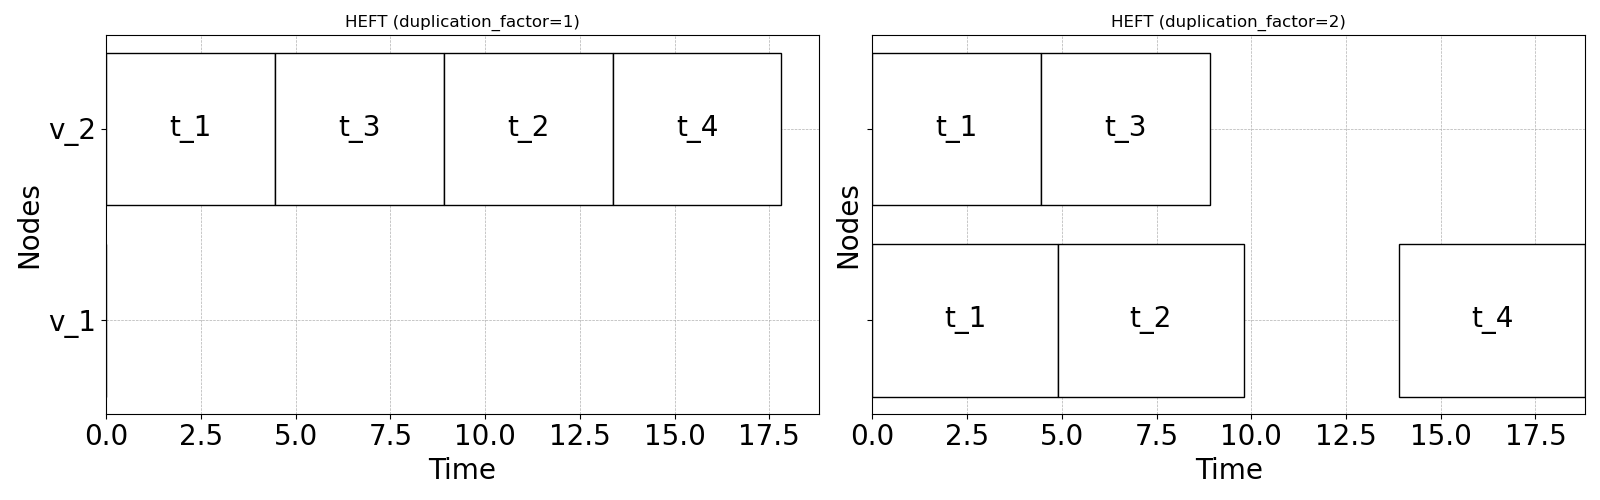
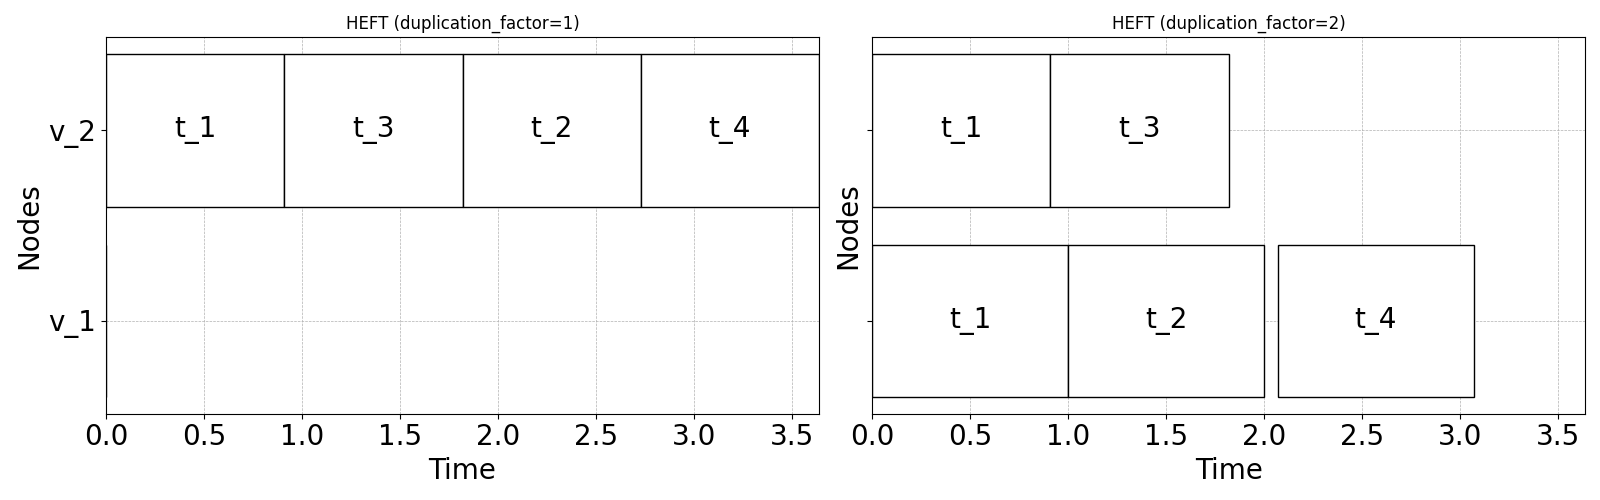
Creates example where duplicating is beneficial

diff --git a/scripts/examples/debug_duplicating/main.py b/scripts/examples/debug_duplicating/main.py
@@ -25,20 +25,19 @@ def build_uniform_network() -> Network:
 	return Network.create(nodes=nodes, edges=edges)
 
 
-def build_diamond_task_graph(
-) -> TaskGraph:
+def build_diamond_task_graph() -> TaskGraph:
 	"""Build diamond DAG: t_1 -> {t_2, t_3} -> t_4."""
 	tasks = [
-		("t_1", 4.9),
-		("t_2", 4.9),
-		("t_3", 4.9),
-		("t_4", 4.9),
+		("t_1", 1.0),
+		("t_2", 1.0),
+		("t_3", 1.0),
+		("t_4", 1.0),
 	]
 	dependencies = [
 		("t_1", "t_2", 5.0),
 		("t_1", "t_3", 5.0),
-		("t_2", "t_4", 5.0),
-		("t_3", "t_4", 5.0),
+		("t_2", "t_4", 1/4),
+		("t_3", "t_4", 1/4),
 	]
 	return TaskGraph.create(tasks=tasks, dependencies=dependencies)
 
